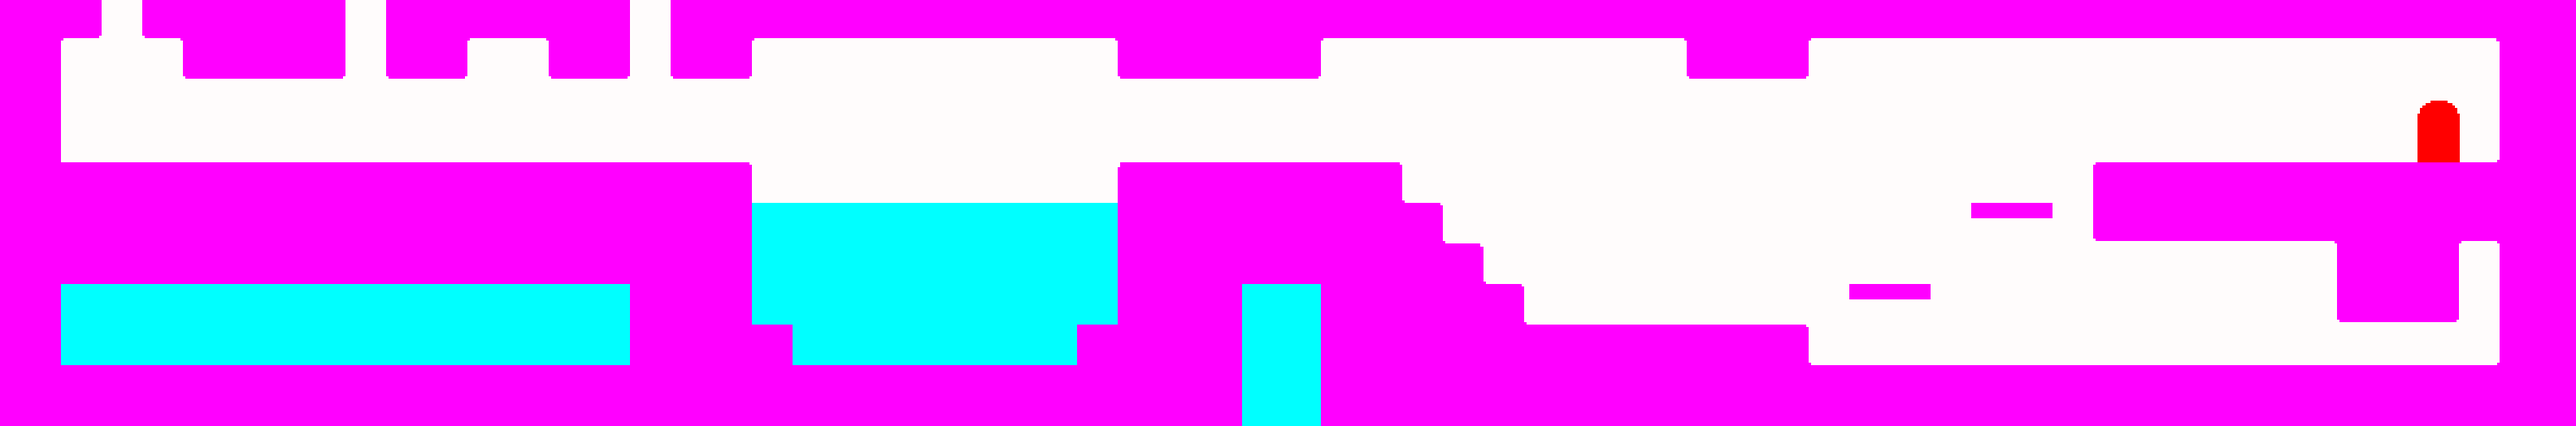
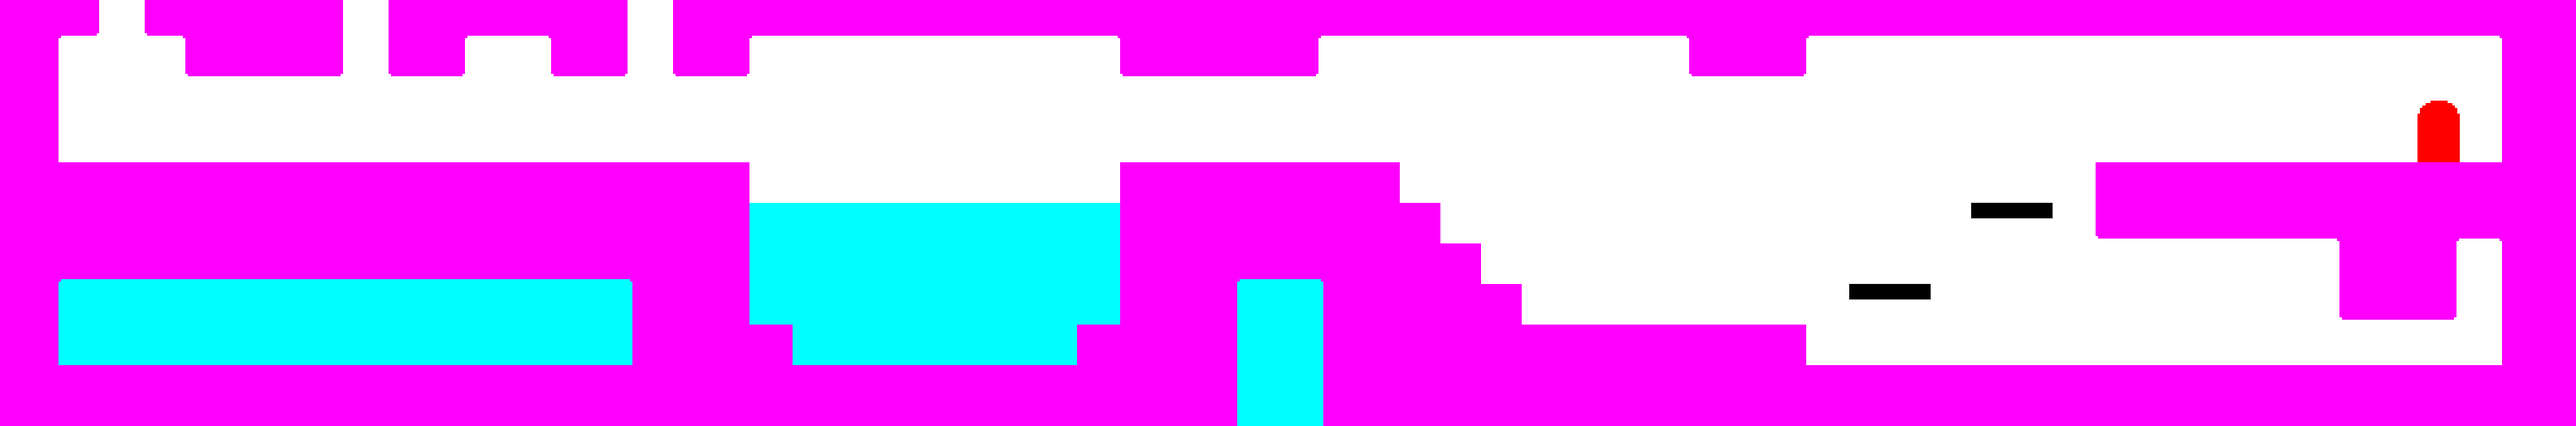
최예나 : 스테이지 변경 (픽셀 충돌 수정 필요)

diff --git a/WinAPI_Portfolio/ContentsProject/Stage104GameMode.cpp b/WinAPI_Portfolio/ContentsProject/Stage104GameMode.cpp
@@ -8,6 +8,7 @@
 
 #include "Player.h"
 #include "Stage.h"
+#include "HUI.h"
 
 AStage104GameMode::AStage104GameMode()
 {
@@ -22,9 +23,15 @@ void AStage104GameMode::BeginPlay()
 	Super::BeginPlay();
 	NewActor = GetWorld()->SpawnActor<AStage>();
 	NewActor->SetSprite("Stage104.png");
+	NewActor->SetColSprite("ColStage104.png");
 
 	APlayer* Player = dynamic_cast<APlayer*>(GetWorld()->GetPawn());
 	Player->GetBackImage("Stage104.png");
+	Player->GetColImage("ColStage104.png");
+	Player->SetActorLocation({ 145, 1049 });
+
+	NewUI = GetWorld()->SpawnActor<AHUI>();
+	NewUI->SetSprite("StageUI.png");
 }
 
 void AStage104GameMode::Tick(float _DeltaTime)
@@ -34,6 +41,11 @@ void AStage104GameMode::Tick(float _DeltaTime)
 	if (true == UEngineInput::GetInst().IsDown('R'))
 	{
 		UEngineAPICore::GetCore()->OpenLevel("BossStage");
+	}
+
+	if (true == UEngineInput::GetInst().IsDown('T'))
+	{
+		NewActor->SwitchColSprite();
 	}
 }
 

diff --git a/WinAPI_Portfolio/ContentsProject/BossStageGameMode.cpp b/WinAPI_Portfolio/ContentsProject/BossStageGameMode.cpp
@@ -8,6 +8,7 @@
 
 #include "Player.h"
 #include "Stage.h"
+#include "HUI.h"
 
 ABossStageGameMode::ABossStageGameMode()
 {
@@ -20,16 +21,24 @@ ABossStageGameMode::~ABossStageGameMode()
 void ABossStageGameMode::BeginPlay()
 {
 	Super::BeginPlay();
-
 	NewActor = GetWorld()->SpawnActor<AStage>();
 	NewActor->SetSprite("Whispy Woods.png");
-	FVector2D Pos = NewActor->GetActorLocation();
+	NewActor->SetColSprite("ColWhispy Woods.png");
 
 	APlayer* Player = dynamic_cast<APlayer*>(GetWorld()->GetPawn());
 	Player->GetBackImage("Whispy Woods.png");
+	Player->GetColImage("ColWhispy Woods.png");
+	Player->SetActorLocation({ 70, 174 });
+
+	NewUI = GetWorld()->SpawnActor<AHUI>();
+	NewUI->SetSprite("StageUI.png");
 }
 
 void ABossStageGameMode::Tick(float _DeltaTime)
 {
+	if (true == UEngineInput::GetInst().IsDown('T'))
+	{
+		NewActor->SwitchColSprite();
+	}
 }
 

diff --git a/WinAPI_Portfolio/ContentsProject/Stage101GameMode.cpp b/WinAPI_Portfolio/ContentsProject/Stage101GameMode.cpp
@@ -28,7 +28,7 @@ void AStage101GameMode::BeginPlay()
 	APlayer* Player = dynamic_cast<APlayer*>(GetWorld()->GetPawn());
 	Player->GetBackImage("Stage101.png");
 	Player->GetColImage("ColStage101.png");
-	Player->SetActorLocation({ 100, 445 });
+	Player->SetActorLocation({ 100, 400 });
 
 	NewUI = GetWorld()->SpawnActor<AHUI>();
 	NewUI->SetSprite("StageUI.png");

diff --git a/WinAPI_Portfolio/ContentsProject/BossStageGameMode.h b/WinAPI_Portfolio/ContentsProject/BossStageGameMode.h
@@ -21,5 +21,6 @@ protected:
 
 private:
 	class AStage* NewActor = nullptr;
+	class AHUI* NewUI = nullptr;
 };
 

diff --git a/WinAPI_Portfolio/ContentsProject/Stage104GameMode.h b/WinAPI_Portfolio/ContentsProject/Stage104GameMode.h
@@ -21,5 +21,6 @@ protected:
 
 private:
 	class AStage* NewActor = nullptr;
+	class AHUI* NewUI = nullptr;
 };
 
